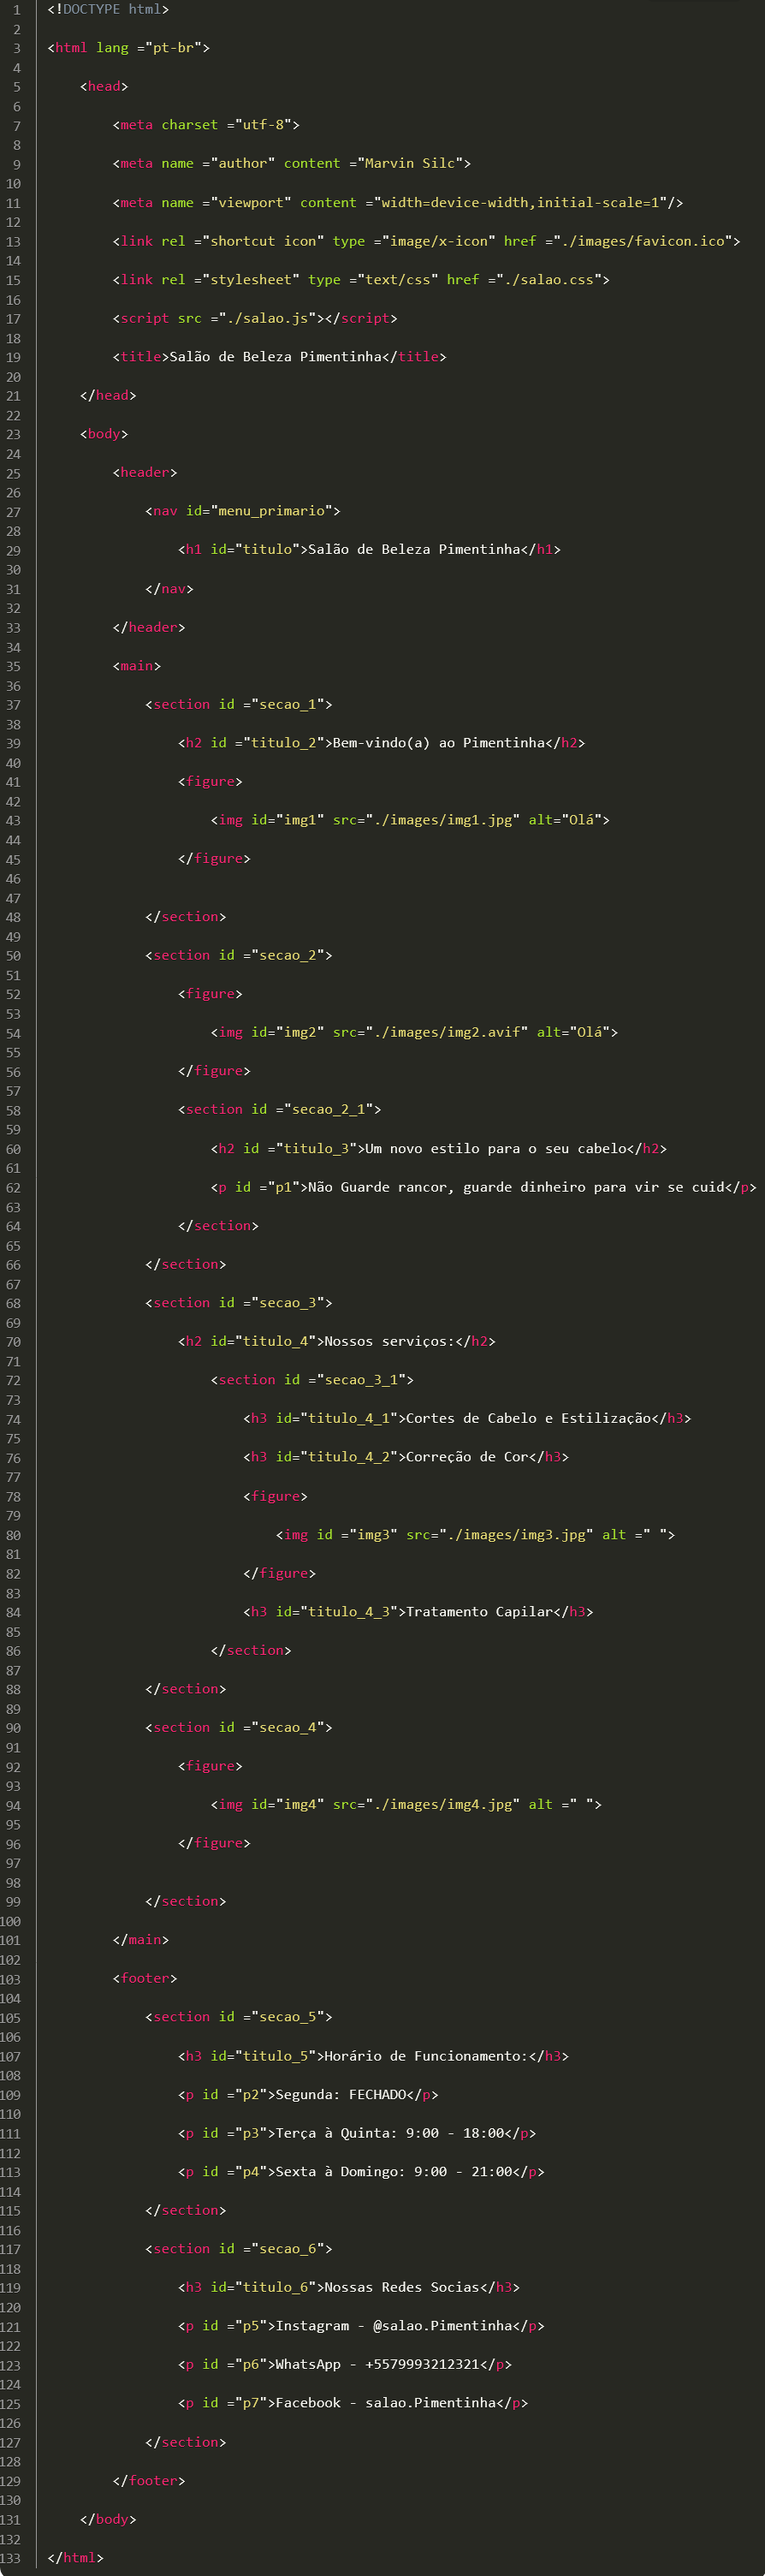
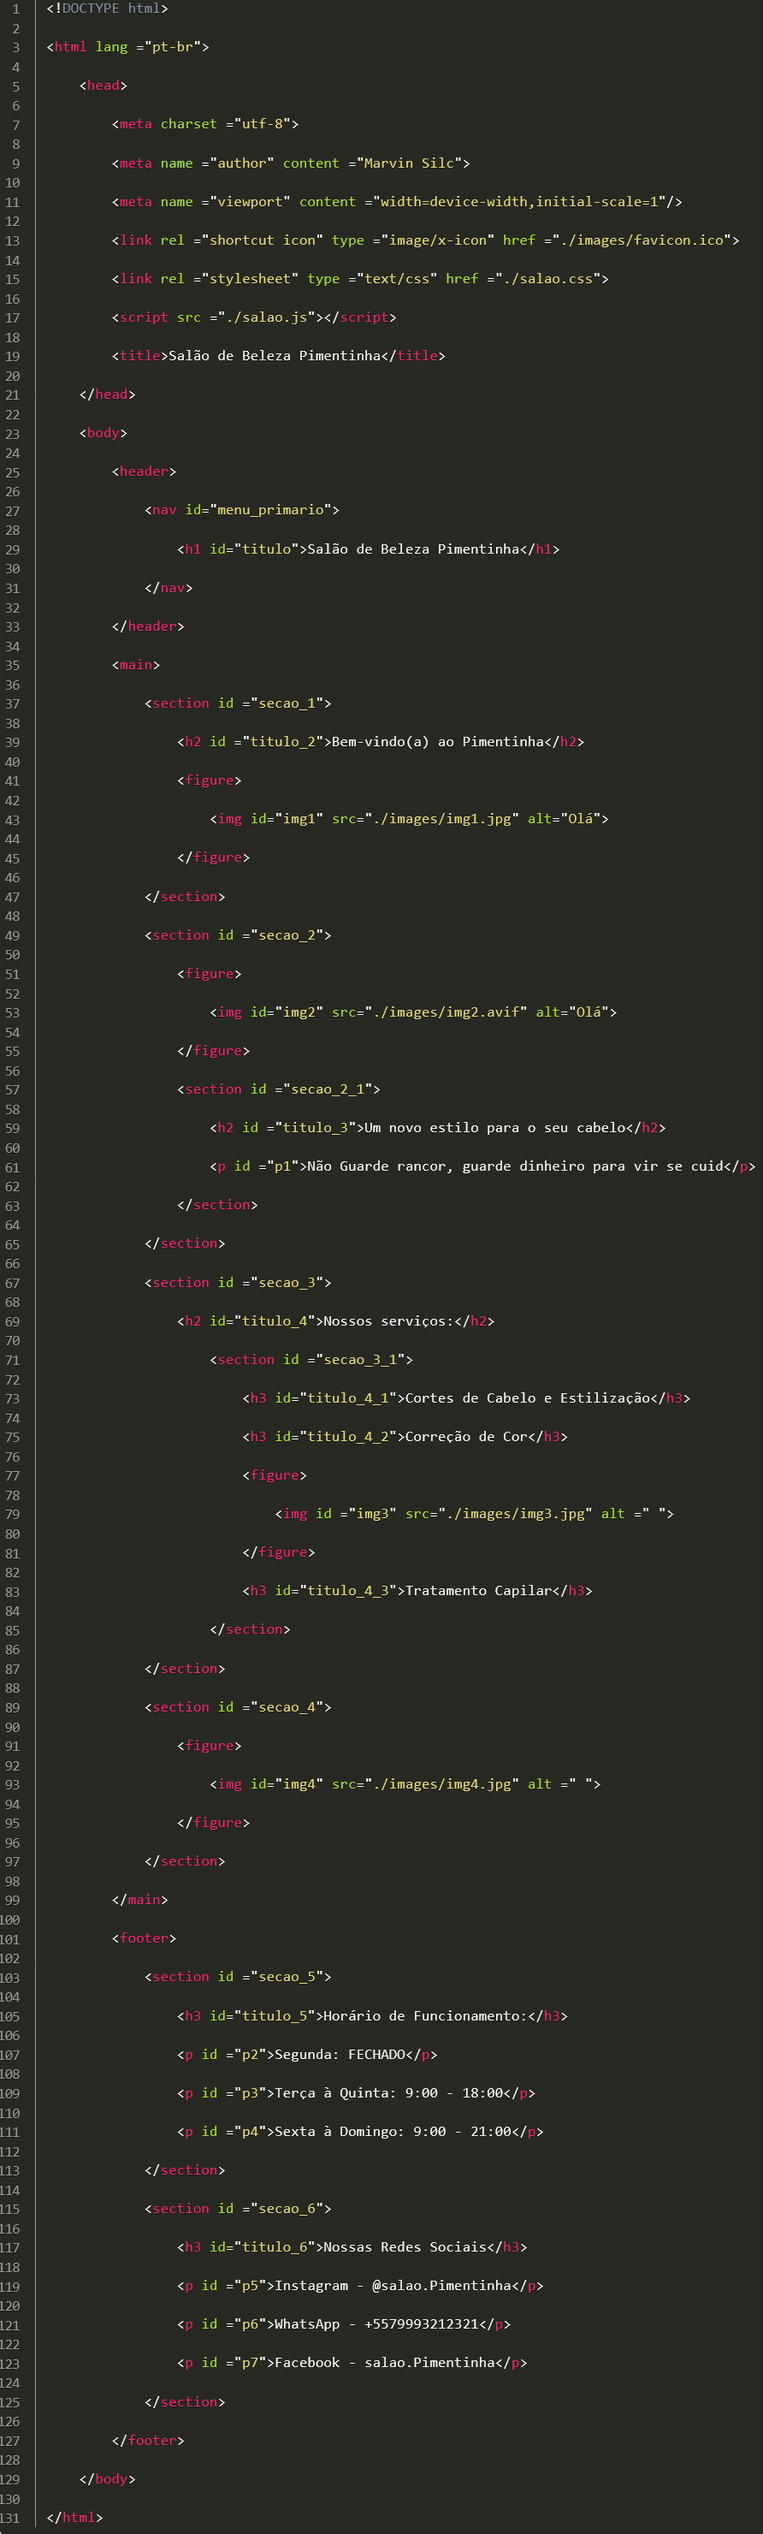
Fixing spacing

diff --git a/turmas/3-inf-b.html b/turmas/3-inf-b.html
@@ -61,10 +61,6 @@
 		<main>
 
 <!--
-      <pre id ="code_block" class ="line-numbers" data-line ="">
-
-        <code id ="teste" class ="language-html" data-prismjs-copy ="Copiar Código">
-
 &lt;!DOCTYPE html&gt;
 
 &lt;html lang =&quot;pt-br&quot;&gt;
@@ -110,7 +106,6 @@
                     &lt;img id=&quot;img1&quot; src=&quot;./images/img1.jpg&quot; alt=&quot;Olá&quot;&gt;
 
                 &lt;/figure&gt;
-
 
             &lt;/section&gt;
 
@@ -162,7 +157,6 @@
 
                 &lt;/figure&gt;
 
-
             &lt;/section&gt;
 
         &lt;/main&gt;
@@ -198,10 +192,6 @@
     &lt;/body&gt;
 
 &lt;/html&gt;
-
-        </code>
-
-      </pre>
       
       -->
 

diff --git a/turmas/3-inf-c.html b/turmas/3-inf-c.html
@@ -60,10 +60,6 @@
 
 		<main>
 <!--
-      <pre id ="code_block" class ="line-numbers" data-line ="">
-
-        <code id ="teste" class ="language-html" data-prismjs-copy ="Copiar Código">
-
 &lt;!DOCTYPE html&gt;
 
 &lt;html lang =&quot;pt-br&quot;&gt;
@@ -109,7 +105,6 @@
                     &lt;img id=&quot;img1&quot; src=&quot;./images/img1.jpg&quot; alt=&quot;Olá&quot;&gt;
 
                 &lt;/figure&gt;
-
 
             &lt;/section&gt;
 
@@ -161,7 +156,6 @@
 
                 &lt;/figure&gt;
 
-
             &lt;/section&gt;
 
         &lt;/main&gt;
@@ -197,9 +191,6 @@
     &lt;/body&gt;
 
 &lt;/html&gt;
-        </code>
-
-      </pre>
 
       -->
 

diff --git a/turmas/3-inf-a.html b/turmas/3-inf-a.html
@@ -59,7 +59,7 @@
       </nav>
 
 		<main>
-<!--
+
       <pre id ="code_block" class ="line-numbers" data-line ="">
 
         <code id ="teste" class ="language-html" data-prismjs-copy ="Copiar Código">
@@ -110,7 +110,6 @@
 
                 &lt;/figure&gt;
 
-
             &lt;/section&gt;
 
             &lt;section id =&quot;secao_2&quot;&gt;
@@ -160,7 +159,6 @@
                     &lt;img id=&quot;img4&quot; src=&quot;./images/img4.jpg&quot; alt =&quot; &quot;&gt;
 
                 &lt;/figure&gt;
-
 
             &lt;/section&gt;
 
